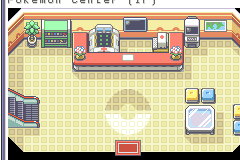
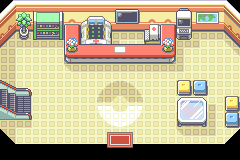
fix(phase2d): re-crop PC interior + swap counter StaticBody for Objects tilemap
Two polish items from playtest:

1. The PC interior crop had 8 extra pixel columns on the left + 8 extra
   rows on the top, and was missing 8 columns on the right. Shifting the
   source rectangle right + down by 8 (from (0, 16)-(240, 176) to
   (8, 24)-(248, 184)) re-centers the room art inside the 240×160 canvas.
   Counter, healing machine, and PC corner all now sit where the source
   art intends. Same 240×160 output dimensions, no code changes needed.

2. Replaced the one-off `StaticBody2D` + `CollisionShape2D` counter
   collision with an `Objects` TileMapLayer child mirroring the
   Overworld's pattern. Player._is_blocked already looks for a sibling
   node named "Objects" on the parent scene, so this drops in without
   any code change. Modulate alpha 0 keeps the layer invisible over the
   background image; painted solid tiles still register for collision.
   Uses the existing frlg_outdoor.tres tileset — any tile whose `solid`
   custom data is true (BUSH, trees, etc.) blocks the player.

Open PokemonCenter.tscn in the Godot editor and paint the Objects
layer to set impassable cells (walls, counter, furniture, PC corner).
The Nurse blocker at (7, 3) still handles the counter-front cell so
the heal interact keeps working regardless of what you paint.

56/56 passing; both scenes load clean.

diff --git a/tools/build_buildings_atlas.py b/tools/build_buildings_atlas.py
@@ -36,7 +36,10 @@ OUT_MAPS_DIR = REPO / "assets" / "maps" / "frlg"
 
 # ---- Crop rectangles ------------------------------------------------------
 PC_EXTERIOR_RECT = (496, 244, 592, 314)   # Buildings.png
-PC_INTERIOR_RECT = (0,   16,  240, 176)   # Pokemon Center _ Mart.png
+# Initial crop was (0, 16, 240, 176) — had 8 extra source pixels on the left
+# and 8 on the top while missing 8 on the right. Shifted the window right + down
+# by 8 to re-center on the actual interior art.
+PC_INTERIOR_RECT = (8,   24,  248, 184)   # Pokemon Center _ Mart.png → 240×160
 
 # Future-phase rectangles (not extracted now):
 #   MART_EXTERIOR_RECT = (416, 244, 496, 314)   # blue-roofed MART
